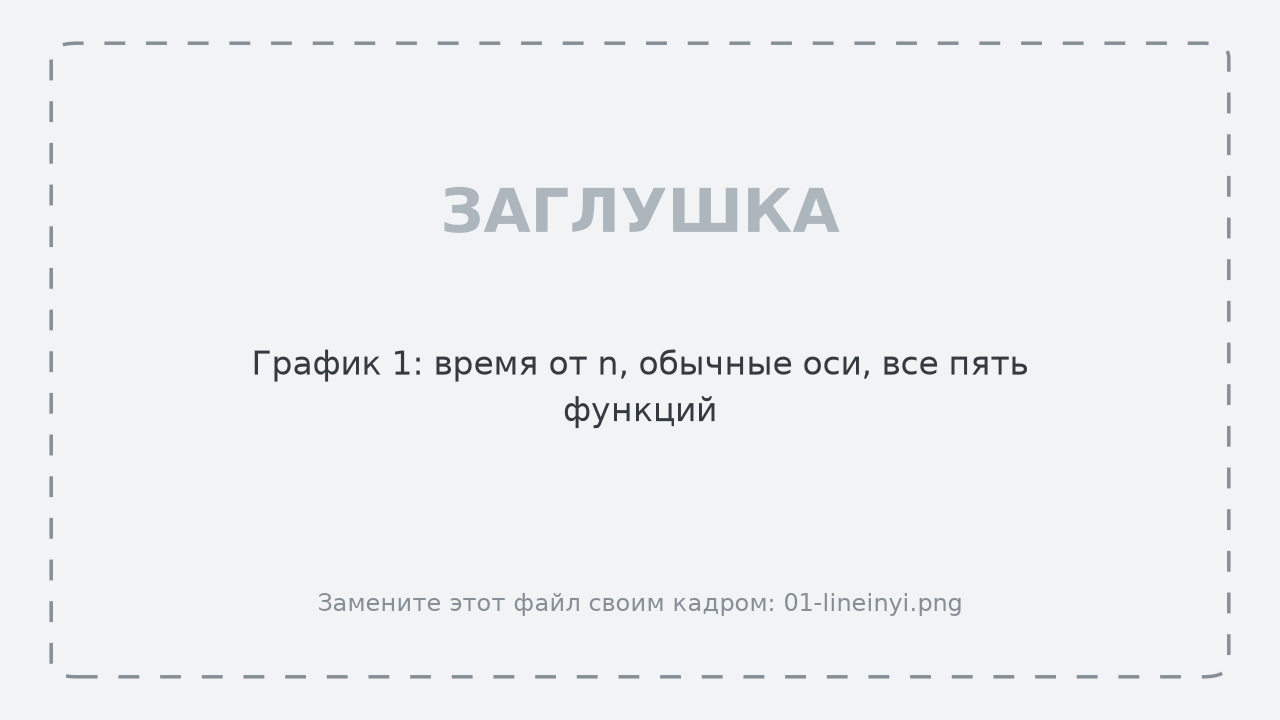
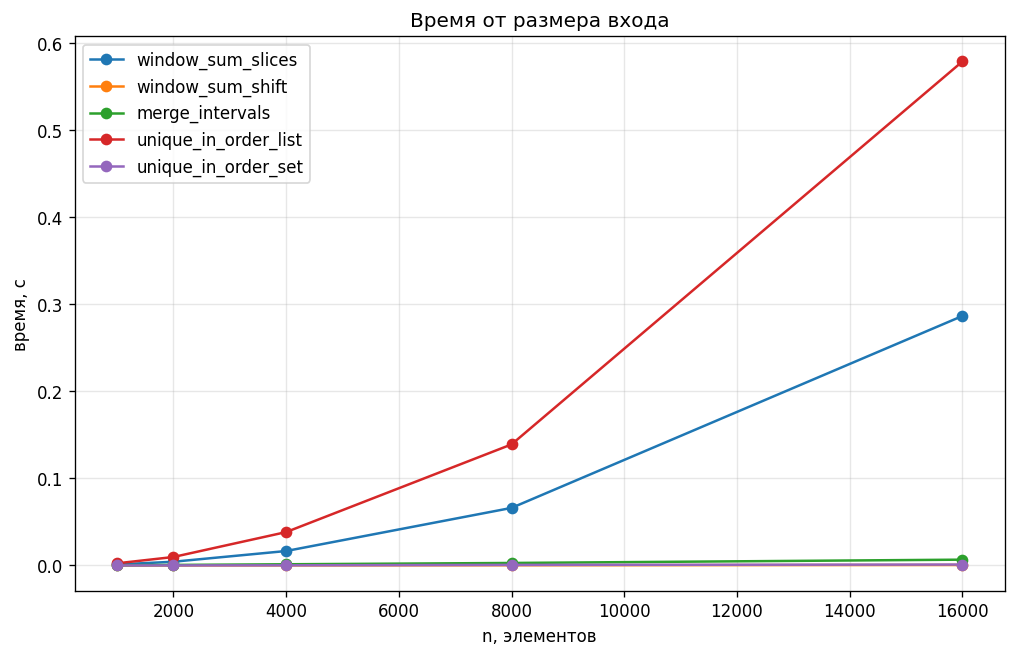
сделал 8-е задание в папке research

diff --git a/research/08-complexity-measurements/measure_08.py b/research/08-complexity-measurements/measure_08.py
@@ -29,100 +29,98 @@ HERE = Path(__file__).parent
 SIZES = [1_000, 2_000, 4_000, 8_000, 16_000]
 K_SERIES_N = 10_000
 K_SERIES = [1, 1_000, 2_500, 5_000, 7_500, 9_000, 10_000]
-
-
 def make_numbers(n, seed=8):
-    """Вернуть список из n разных целых чисел в случайном порядке.
-
-    Числа берутся из диапазона от 0 до 10·n. При одном и том же seed
-    список всегда одинаковый, поэтому замер можно повторить.
-
-    Подсказка: random.Random(seed) — свой генератор, у него есть метод sample.
-    """
-    # TODO
-    raise NotImplementedError
-
-
-def make_intervals(n, seed=8):
-    """Вернуть n интервалов [начало, конец]; конец больше начала на 0–5."""
     rng = random.Random(seed)
-    intervals = []
-    for _ in range(n):
-        start = rng.randrange(10 * n)
-        intervals.append([start, start + rng.randint(0, 5)])
-    return intervals
+    return rng.sample(range(10 * n), n)
 
 
 def measure_time(func, *args, repeats=5):
-    """Вызвать func(*args) repeats раз и вернуть медиану времени в секундах.
-
-    Так же, как в программе measurements.py с занятия 4: perf_counter до
-    и после вызова, время каждого вызова в список, в ответ — медиана.
-    """
-    # TODO
-    raise NotImplementedError
+    times = []
+    for _ in range(repeats):
+        start = perf_counter()
+        func(*args)
+        end = perf_counter()
+        times.append(end - start)
+    return median(times)
 
 
 def growth_ratios(times):
-    """Во сколько раз выросло время при каждом удвоении n.
-
-    growth_ratios([1.0, 2.0, 8.0]) == [2.0, 4.0]
-    Для пустого списка и списка из одного времени ответ — пустой список.
-    """
-    # TODO
-    raise NotImplementedError
+    return [times[i] / times[i - 1] for i in range(1, len(times))]
 
 
 def measure_k_series(n, ks, repeats=3):
-    """Время window_sum_slices на одних и тех же n числах при разных k.
+    nums = make_numbers(n)
+    results = []
+    for k in ks:
+        seconds = measure_time(window_sum_slices, nums, k, repeats=repeats)
+        results.append((k, seconds))
+    return results
 
-    Вернуть список пар (k, секунды) в том же порядке, что ks.
-    Данные готовятся один раз, до замеров: make_numbers(n).
-    """
-    # TODO
-    raise NotImplementedError
+# Функции замера для каждой алгоритмической функции 
 
+def measure_window_sum_slices(n):
+    """Замер window_sum_slices. k = n // 2, чтобы увидеть квадратичный рост."""
+    nums = make_numbers(n)
+    k = n // 2
+    return measure_time(window_sum_slices, nums, k)
 
-# Что измеряем: имя в таблице, функция, как построить вход размера n,
-# сколько раз повторить замер. Быстрые функции повторяем чаще: их время —
-# доли миллисекунды, и одиночный замер сильно скачет.
-EXPERIMENTS = [
-    ("window_sum_slices", window_sum_slices, lambda n: (make_numbers(n), n // 2), 3),
-    ("window_sum_shift", window_sum_shift, lambda n: (make_numbers(n), n // 2), 15),
-    ("merge_intervals", merge_intervals, lambda n: (make_intervals(n),), 15),
-    ("unique_in_order_list", unique_in_order_list, lambda n: (make_numbers(n),), 3),
-    ("unique_in_order_set", unique_in_order_set, lambda n: (make_numbers(n),), 15),
-]
+def measure_window_sum_shift(n):
+    """Замер window_sum_shift. k = n // 2, сложность не зависит от k."""
+    nums = make_numbers(n)
+    k = n // 2
+    return measure_time(window_sum_shift, nums, k)
 
+def measure_merge_intervals(n):
+    """Замер merge_intervals. Генерируем n случайных интервалов."""
+    rng = random.Random(8)
+    intervals = []
+    for _ in range(n):
+        start = rng.randint(0, 10 * n)
+        end = start + rng.randint(0, 100)  # длина от 0 до 100
+        intervals.append([start, end])
+    return measure_time(merge_intervals, intervals)
+
+def measure_unique_in_order_list(n):
+    """Замер unique_in_order_list. Данные уникальны (худший случай)."""
+    items = make_numbers(n)
+    return measure_time(unique_in_order_list, items)
+
+def measure_unique_in_order_set(n):
+    """Замер unique_in_order_set. Данные уникальны."""
+    items = make_numbers(n)
+    return measure_time(unique_in_order_set, items)
 
 def main():
-    rows = []
-    print(f"{'функция':<22}" + "".join(f"{n:>12}" for n in SIZES))
-    for name, func, make_args, repeats in EXPERIMENTS:
-        times = []
-        for n in SIZES:
-            args = make_args(n)
-            seconds = measure_time(func, *args, repeats=repeats)
-            times.append(seconds)
-            rows.append((name, n, seconds))
-        print(f"{name:<22}" + "".join(f"{t:>12.6f}" for t in times))
-        print(f"{'  рост при удвоении':<22}{'':>12}" + "".join(f"{r:>12.2f}" for r in growth_ratios(times)))
+    funcs = [
+        ("window_sum_slices", measure_window_sum_slices),
+        ("window_sum_shift", measure_window_sum_shift),
+        ("merge_intervals", measure_merge_intervals),
+        ("unique_in_order_list", measure_unique_in_order_list),
+        ("unique_in_order_set", measure_unique_in_order_set),
+    ]
 
-    with open(HERE / "results_08.csv", "w", newline="", encoding="utf-8") as file:
-        writer = csv.writer(file)
+    results = {}
+    for name, func in funcs:
+        times = [func(n) for n in SIZES]
+        results[name] = times
+
+    # Сохранение в CSV (правильный формат для plot_08.py)
+    with open(HERE / "results_08.csv", "w", newline="") as f:
+        writer = csv.writer(f)
         writer.writerow(["function", "n", "seconds"])
-        writer.writerows(rows)
+        for name, _ in funcs:
+            for i, n in enumerate(SIZES):
+                writer.writerow([name, n, results[name][i]])
 
-    print(f"\nwindow_sum_slices при n = {K_SERIES_N}:")
-    k_rows = measure_k_series(K_SERIES_N, K_SERIES)
-    for k, seconds in k_rows:
-        print(f"  k = {k:>6}: {seconds:.6f} с")
+    # Замеры для графика 3
+    k_results = measure_k_series(K_SERIES_N, K_SERIES)
 
-    with open(HERE / "results_08_k.csv", "w", newline="", encoding="utf-8") as file:
-        writer = csv.writer(file)
+    with open(HERE / "results_08_k.csv", "w", newline="") as f:
+        writer = csv.writer(f)
         writer.writerow(["k", "seconds"])
-        writer.writerows(k_rows)
+        for k, t in k_results:
+            writer.writerow([k, t])
 
-
+    print("Готово: results_08.csv и results_08_k.csv сохранены в правильном формате.")
 if __name__ == "__main__":
     main()

diff --git a/research/08-complexity-measurements/plot_08.py b/research/08-complexity-measurements/plot_08.py
@@ -52,31 +52,42 @@ def plot_linear(series):
     fig.savefig(SCREENS / "01-lineinyi.png", dpi=120, bbox_inches="tight")
     plt.close(fig)
 
-
 def plot_log_log(series):
-    """График 2: те же линии, но обе оси логарифмические.
-
-    На таком графике функция O(n) — прямая с наклоном 1, функция O(n²) —
-    прямая с наклоном 2: вдвое круче.
-
-    TODO: скопируйте тело plot_linear и добавьте ax.set_xscale("log")
-    и ax.set_yscale("log"). Свой заголовок, файл — SCREENS / "02-log-log.png".
-    """
-    # TODO
+    fig, ax = plt.subplots(figsize=(10, 6))
+    for name, (sizes, times) in series.items():
+        ax.plot(sizes, times, marker="o", label=name)
+    
+    ax.set_xscale("log")
+    ax.set_yscale("log")
+    
+    ax.set_title("Время от размера входа (лог-лог)")
+    ax.set_xlabel("n, элементов (log)")
+    ax.set_ylabel("время, с (log)")
+    ax.grid(True, alpha=0.3)
+    ax.legend()
+    fig.savefig(SCREENS / "02-log-log.png", dpi=120, bbox_inches="tight")
+    plt.close(fig)
 
 
 def plot_k(ks, times):
-    """График 3: время window_sum_slices от k при постоянном n.
-
-    TODO: одна линия, по оси x — k, по оси y — время. Подписи осей
-    и заголовок свои, файл — SCREENS / "03-ot-k.png".
-    """
-    # TODO
-
+    fig, ax = plt.subplots(figsize=(10, 6))
+    ax.plot(ks, times, marker="o", color="purple")
+    
+    ax.set_title("Время window_sum_slices от k")
+    ax.set_xlabel("k, длина окна")
+    ax.set_ylabel("время, с")
+    ax.grid(True, alpha=0.3)
+    fig.savefig(SCREENS / "03-ot-k.png", dpi=120, bbox_inches="tight")
+    plt.close(fig)
 
 if __name__ == "__main__":
-    SCREENS.mkdir(exist_ok=True)
-    plot_linear(read_results())
-    plot_log_log(read_results())
-    plot_k(*read_k_results())
-    print("Графики сохранены в", SCREENS)
+    # Читаем данные
+    series = read_results()
+    ks, times = read_k_results()
+    
+    # Строим и сохраняем графики
+    plot_linear(series)
+    plot_log_log(series)
+    plot_k(ks, times)
+    
+    print("Все 3 графика сохранены в папку screens")

diff --git a/research/08-complexity-measurements/homework_08.md b/research/08-complexity-measurements/homework_08.md
@@ -4,11 +4,11 @@
 
 | Поле | Значение |
 |---|---|
-| Фамилия, имя, отчество |  |
-| Группа |  |
+| Фамилия, имя, отчество | Клейновский Максим Андреевич |
+| Группа | 9/3-РПО-24/2 |
 | Номер работы | 8 |
 | Тема работы | Замер пяти функций, рост при удвоении, графики |
-| Дата сдачи |  |
+| Дата сдачи | 27.11 |
 | Ветка | `hw-08` |
 
 Сначала сделайте прогноз по коду, затем сравните его с измерениями. В отчёте
@@ -22,13 +22,13 @@
 Ошибиться можно: замер покажет, где прогноз неверен. Рост при удвоении
 возьмите из вывода программы, у последнего удвоения 8 000 → 16 000.
 
-| Функция | Прогноз | Рост при удвоении | Сложность по замеру |
+ Функция | Прогноз | Рост при удвоении | Сложность по замеру |
 |---|---|---|---|
-| `window_sum_slices` | ___ | ___ | ___ |
-| `window_sum_shift` | O(n): один проход | 1,96 | O(n) |
-| `merge_intervals` | ___ | ___ | ___ |
-| `unique_in_order_list` | ___ | ___ | ___ |
-| `unique_in_order_set` | ___ | ___ | ___ |
+| `window_sum_slices` | O(n^2) | 4.07 | O(n^2) |
+| `window_sum_shift` | O(n): один проход | 1.99 | O(n) |
+| `merge_intervals` | O(n log n): из-за сортировки | 2.53 | O(n log n) |
+| `unique_in_order_list` | O(n^2) | 4.10 | O(n^2) |
+| `unique_in_order_set` | O(n) | 1.76 | O(n) |
 
 В строке `window_sum_shift` стоит пример с одного компьютера. Замените рост своим.
 
@@ -42,11 +42,11 @@
 
 ![График 2: логарифмические оси](screens/02-log-log.png)
 
-Какие линии на графике 2 идут круче остальных и что это значит: ___
+- Какие линии на графике 2 идут круче остальных и что это значит: Круче всего идут линии `window_sum_slices` и `unique_in_order_list`. На графике это означает, что у них самая высокая степень роста - O(n^2) (наклон прямой равен 2). Линии `window_sum_shift` и `unique_in_order_set` идут более полого (наклон 1) - сложность O(n). `merge_intervals` с сортировкой и `window_sum_shift` с одним проходом растут
+почти одинаково. 
 
-`merge_intervals` с сортировкой и `window_sum_shift` с одним проходом растут
-почти одинаково. Можно ли по пяти точкам отличить O(n log n) от O(n)
-и как бы вы поставили опыт, чтобы отличить точнее: ___
+- Можно ли по пяти точкам отличить O(n log n) от O(n)
+и как бы вы поставили опыт, чтобы отличить точнее: По пяти точкам на таких  размерах до 16 000 отличить их сложно: рост O(n log n) составляет 2.15-2.5 раз, а O(n) - 2. Разница визуально почти незаметна, чтобы отличить точнее, нужно брать большие размеры входа (например, от 10^6 до 10^7), где разница в коэффициентах накопится, либо замерять не время, а точное количество выполненных операций (итераций цикла).
 
 ---
 
@@ -54,11 +54,11 @@
 
 В `unique_in_order_list` всего один цикл по списку. Совпал ли замер
 с вашим прогнозом? Какая строка кода определяет сложность и почему она
-не O(1): ___
+не O(1): Да, замер совпал - рост 4.10. Сложность определяет строка `if x not in result:`. Она неявно перебирает элементы списка от начала до конца, пока не найдет совпадение. Поэтому внутри цикла выполняется скрытый линейный поиск, что в сумме дает O(n^2).
 
 Сколько времени она заняла бы на 1 000 000 чисел? Это в 62,5 раза больше,
-чем 16 000. При O(n²) время вырастет примерно в 62,5² ≈ 3 900 раз:
-___ с × 3 900 ≈ ___ мин.
+чем 16 000. При O(n^2) время вырастет примерно в 62,5^2 ≈ 3 900 раз:
+0.559 с * 3 900 ≈ 36.3 мин.
 
 ---
 
@@ -68,17 +68,17 @@ ___ с × 3 900 ≈ ___ мин.
 
 n = 10 000 не меняется, меняется только k. Окон n − k + 1, в каждом k чисел.
 
-Почему график поднимается, а потом падает почти до нуля при k = n: ___
+Почему график поднимается, а потом падает почти до нуля при k = n: График имеет форму параболы, потому что количество операций зависит от произведения k * (n - k) (длина окна умножается на количество окон). Максимум достигается в середине, когда k = n/2. При k = n цикл вообще не выполняется (окно одно), поэтому время падает почти до нуля.
 
 Какая сложность у `window_sum_slices` через n и k, и почему в разделе 1
-она вела себя как O(n²): ___
+она вела себя как O(n²): Сложность - O(k * (n - k)). В разделе 1 мы задавали k = n/2, поэтому k * (n - k) = (n/2) * (n/2) = n^2/4, что по O-нотации дает O(n^2).
 
 ---
 
 ## 5. Вывод
 
-Чего вы не увидели бы в коде без замера: ___
+Чего вы не увидели бы в коде без замера: Без замера сложно было бы догадаться, что `merge_intervals` растет всего в 2.5 раза при удвоении, почти как линейная. А также то, что оператор `in` для списка и для множества (`set`) дает  разную скорость работы: в списке он делает функцию квадратичной, а во множестве - линейной.
 
 ---
 
-ИИ: не использовал / использовал для ___
+ИИ: использовал для проверки расчётов и оформления текста
